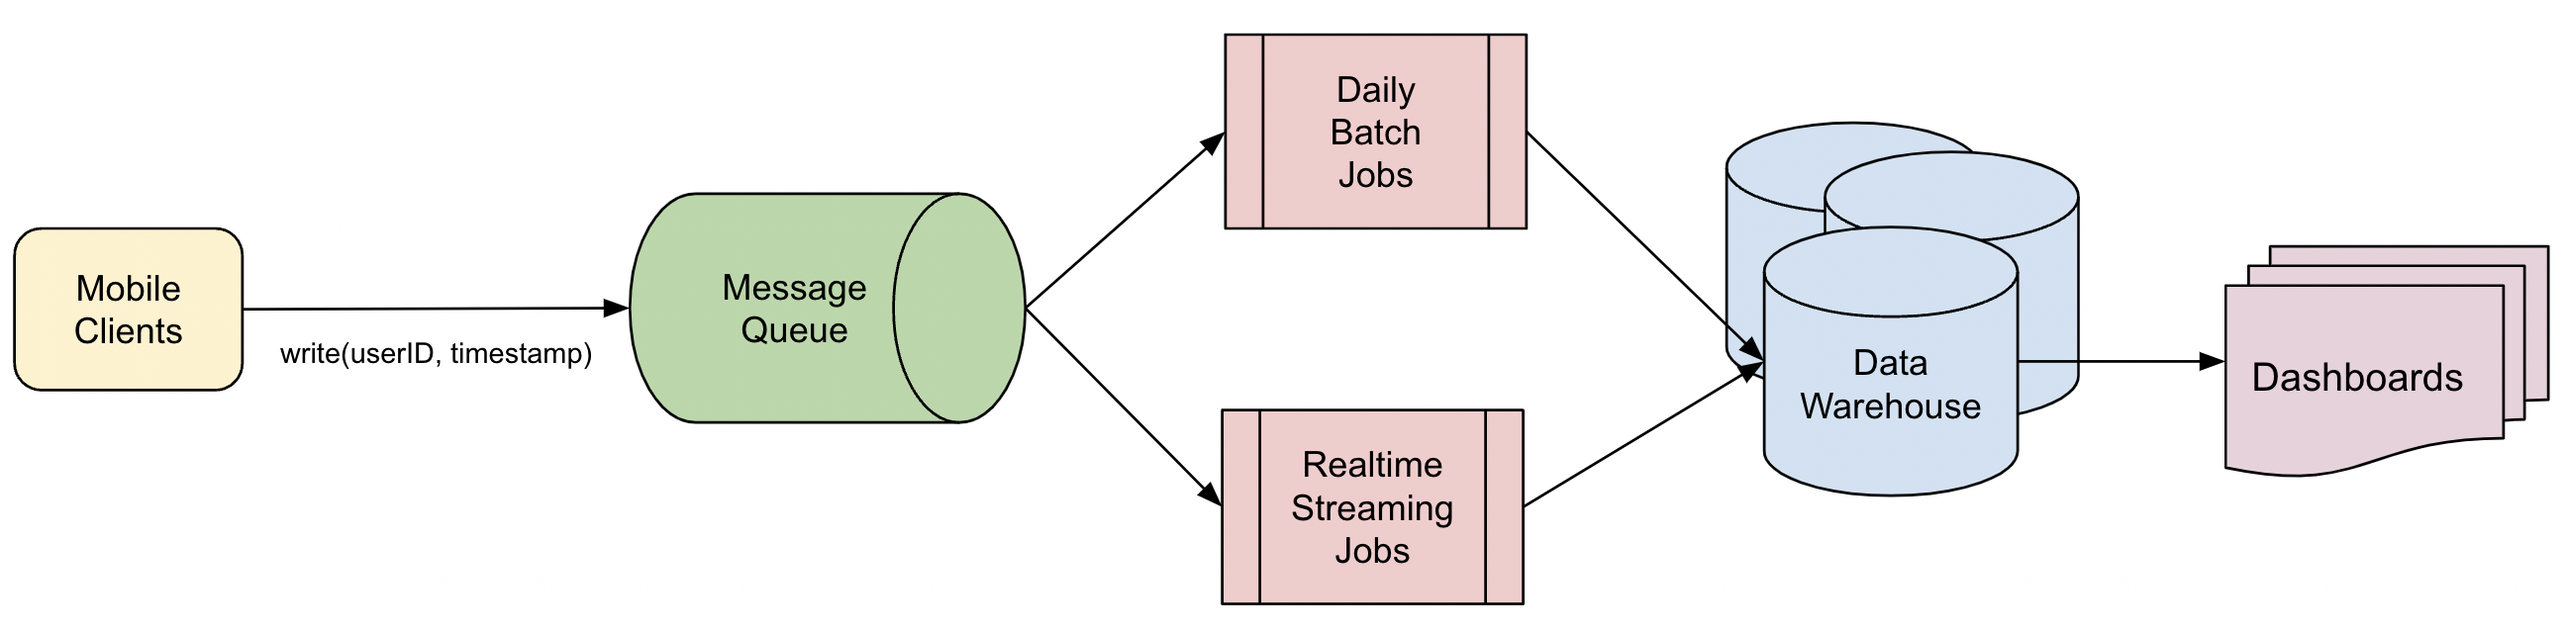
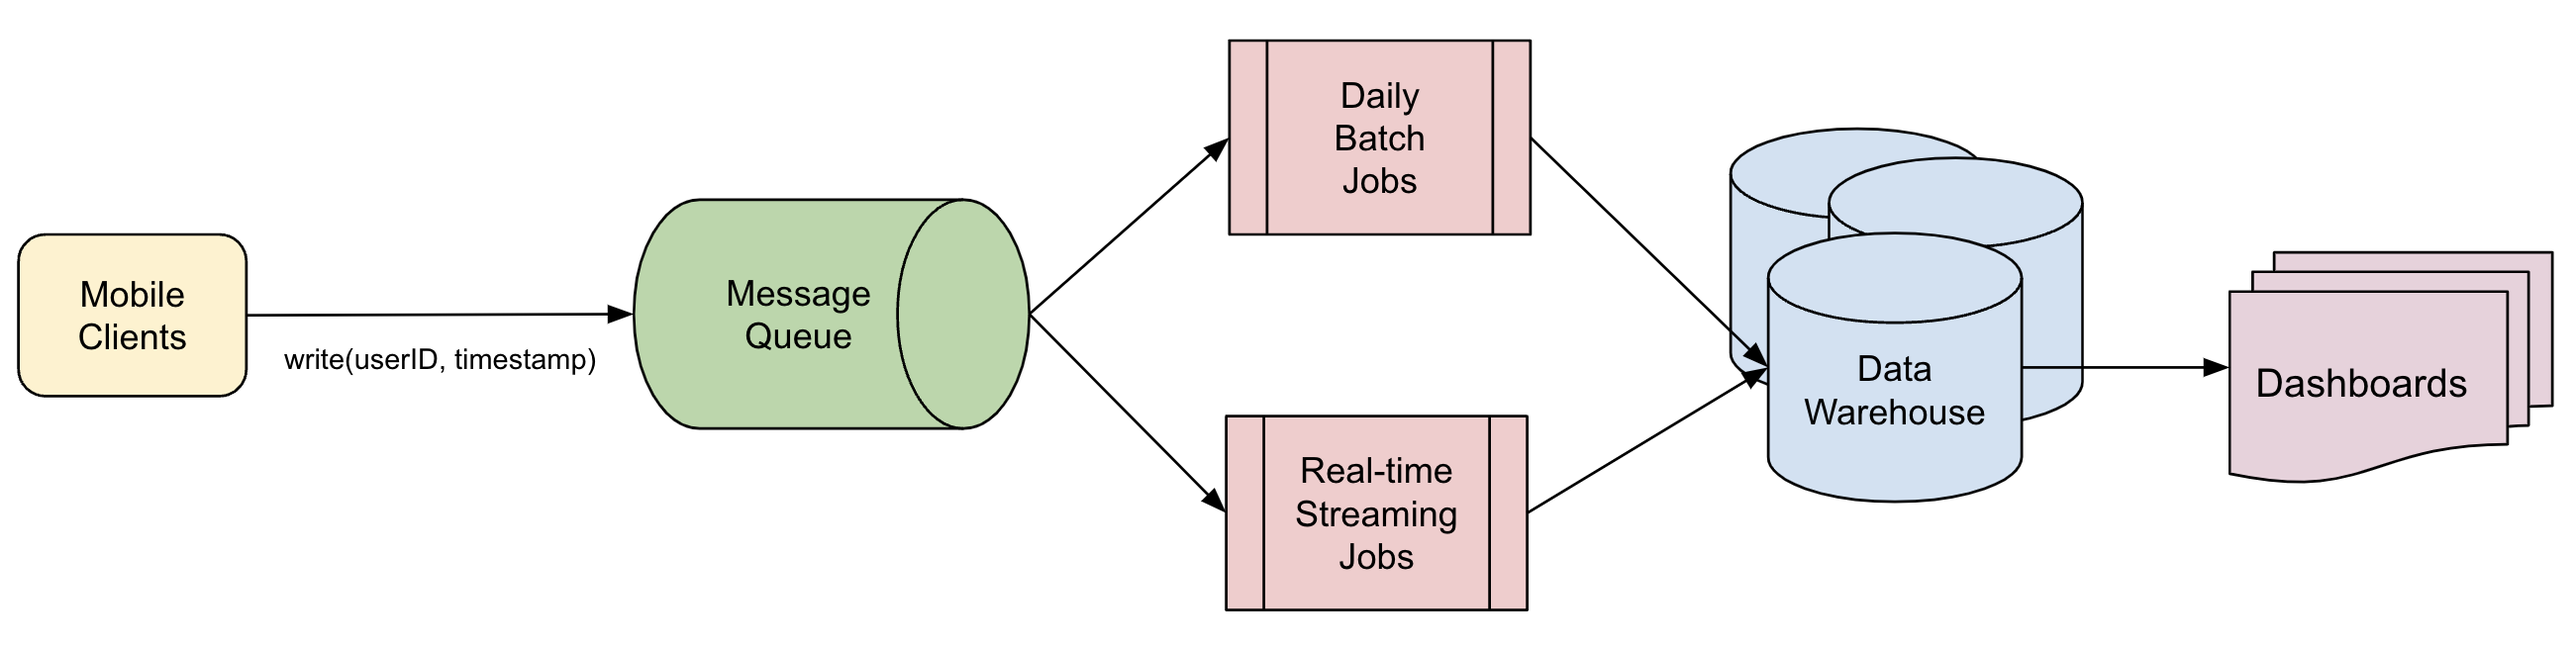
update lambda architecture post for clarity

diff --git a/_posts/2022-07-27-lambda-architecture-a-practical-example.md b/_posts/2022-07-27-lambda-architecture-a-practical-example.md
@@ -3,7 +3,9 @@ layout: post
 title: "Lambda Architecture: A Practical Example"
 ---
 
-Many tech companies utilize something called Lambda architecture[^1] as the basis of their data processing infrastructure, which processes data needed to drive their most critical business decisions and initiatives.
+Many tech companies utilize something called Lambda architecture as the basis of their data processing infrastructure, which processes the data needed to drive their most critical business decisions and initiatives.[^1]
+
+[^1]: not to be confused with lambda functions or AWS Lambda/serverless
 
 This post seeks to explain the what, why, and how of Lambda architecture using a practical example.
 
@@ -25,13 +27,13 @@ FROM player_table
 WHERE DATE(`timestamp`) = DATE_SUB(CUR_DATE(), INTERVAL 1 DAY)
 ```
 
-###### Note, since a user can open the game multiple times per day, the COUNT DISTINCT is necessary for de-duplication.
+###### Note, a user can open the game multiple times per day, the COUNT DISTINCT is necessary to get the total unique count
 
 Great, the query runs successfully and we reply to Bob - "21,367 players!"
 
-This architecture is initially scalable enough for our relatively small playerbase, and serves our purposes quite well. Slowly however, our game becomes a massive hit and our game explodes in popularity. We gain millions of players worldwide and are very excited about the potential of continued growth.
+This architecture is initially scalable enough for our relatively small player-base. Slowly however, our game becomes a massive hit and explodes in popularity. We gain millions of players worldwide and are very excited about the potential of continued growth.
 
-Unfortunately, our SQL database begins to buckle under the increased load. The CPU spikes to 100% and reliability drops - we begin losing data. To support this load, we consider renting more expensive SQL nodes (vertical scaling) and sharding our database (horizontal scaling). However, we do some back-of-envelope calculations and realize either approach would lead to prohibitively expensive infrastructure costs to support the scale we need.
+Unfortunately, our SQL database begins to buckle under the increased load. The CPU spikes to 100% and reliability drops - we begin losing data. To support this load, we consider renting more powerful SQL nodes (vertical scaling) and sharding our database (horizontal scaling). However, we do some back-of-envelope calculations and realize either approach would lead to prohibitively expensive infrastructure costs to support the scale we need.
 
 We decide to build a more robust alternative.
 
@@ -39,9 +41,9 @@ We decide to build a more robust alternative.
 
 To handle our increased request volume, we need a more efficient way to log the user IDs and timestamps. We decide to write to a message queue instead, which can efficiently support a high number of write requests. 
 
-After we write to the message queue, we still need a way to calculate the number of unique players per day. We decide to implement this with a batch job. At the end of every day, our batch job reads all messages written in the previous day in parallel, and counts the unique user IDs (de-duplicating as necessary), and writes the result to a DB. The job takes a few hours to complete and the results should be ready by morning.
+After we write to the message queue, we still need a way to calculate the number of unique players per day. We decide to implement this with a batch MapReduce job. At the end of each day, our job reads all messages written in the previous day in parallel, counts the unique user IDs (de-duplicating as necessary), and writes the result to a DB. The job takes a few hours to complete and the results should be ready by morning.
 
-To further optimize on storage costs, we introduce data retention by regularly purging stale data used already from previous dates from the message queue.
+To further optimize on storage costs, we introduce data retention by regularly purging stale data used already by previous daily jobs from the message queue.
 
 ![batch](/assets/lambda-architecture/batch.png)
 
@@ -49,33 +51,33 @@ We test and deploy the system, add some metrics and alarms, and go to sleep. The
 
 ![how many players where there yesterday?](/assets/lambda-architecture/yesterday-msg.png)
 
-We check yesterday's job and saw it completed. We query the results and reply to Bob - "20,340,911 players!"
+We check yesterday's job and saw it completed. We query the result and reply to Bob - "20,340,911 players!"
 
 Our system works as expected and the number of players continue to grow, life is good.
 
-## Realtime Layer
+## Real-time Layer
 
 One day, we get a different Slack message from Bob:
 
 ![roughly how many players played today so far?](/assets/lambda-architecture/today-msg.png)
 
-However, we only have the numbers from yesterday. We quickly trigger a manual run of the batch job for today's data. After few hours when the job completes, we reply the number to Bob, who has already ended his workday and is offline.
+However, we only have the numbers from yesterday. We quickly trigger a manual run of the batch job for today's data. After few hours when the job completes, we reply to Bob with the number. However, Bob has already ended his workday and is offline.
 
-To handle future questions like this quickly, we decide to build a realtime system. We briefly reconsider our previous design of writing directly to the SQL DB which we can quickly query, but remember the scaling constraints. We also consider running the batch job every minute to always have up-to-date data, but the batch job is expensive and we can only afford a few runs per a day.
+To be able to handle future questions like this quickly, we decide to build a real-time system. We briefly reconsider our previous design of a SQL DB which can be quickly queried, but remember the scaling constraints. We also consider running the batch job every few minutes to always have up-to-date data, but the batch job is expensive and we can only afford a few runs per a day.
 
-We recall learning about data streaming and how it can be used to handle realtime data, and decide to build a streaming job. We set up our streaming job, and add it as an additional consumer to our message queue where it constantly fetches the latest user IDs from the queue.
+We recall learning about data streaming and how it can be used to handle real-time data, and decide to build a streaming job. We set up our streaming job, and add it as an additional consumer to our message queue where it constantly fetches the latest user IDs from the queue.
 
-We consider outputting the streaming job as to a set of unique user IDs to keep track of the distinct count, but that would require memory proportional to the number of players - too expensive. Since Bob is fine with just a rough number in realtime, we decide to use a probabilistic cardinality counter, such as [HyperLogLog](https://en.wikipedia.org/wiki/HyperLogLog) which can approximate the number of uniques to a high degree of accuracy at a fraction of the memory footprint.
+We consider outputting the streaming job as to a set of unique user IDs to keep track of the distinct count, but that would require memory proportional to the number of players - too expensive. Since Bob is fine with just a rough number in real-time, we decide to use a probabilistic cardinality counter, such as [HyperLogLog](https://en.wikipedia.org/wiki/HyperLogLog) which can approximate the number of uniques to a high degree of accuracy at a fraction of the memory footprint.
 
 ![streaming](/assets/lambda-architecture/streaming.png)
 
-After deploying the realtime job and HyperLogLog DB, we are now ready to answer Bob's question quickly at anytime during the day.
+After deploying the streaming job and HyperLogLog counter, we are now ready to answer Bob's question quickly at anytime during the day.
 
 ## Serving Layer
 
-Our game continues to increase in popularity, and both our batch and realtime systems continue to scale successfully. Over time, more business use cases are added such as: How many matches are played per day? How many players per country? How many advertisements shown per hour? etc.
+Our game continues to increase in popularity, and both our batch and real-time systems continue to scale successfully. Over time, more business use cases are added such as: How many matches are played per day? How many players per country? How many advertisements shown per hour? etc.
 
-Bob also grows the company by hiring data analysts and forming a business team. As a result, we need a more efficient way to serve the data to them instead of manually running queries and replying on Slack.
+Bob also grows the company by hiring data analysts and forming a business team. As a result, we need a more efficient way to serve the data to them instead of manually running queries and replying over Slack.
 
 We decide to build a serving layer. We join the different databases we have behind a single interface, and build tools and dashboards so the business team can visualize the data and run reports on an ad-hoc basis.
 
@@ -85,19 +87,18 @@ After deploying the serving layer, everyone in the company is now able to access
 
 ## Conclusion
 
-The batch layer provides accurate data with increased latency - useful for scenarios that require precision over speed (e.g. financial reporting); the realtime layer provides approximate data at a low latency - useful for scenarios that require speed over precision (e.g. operational realtime decision-making). The serving layer enables stakeholders to easily access this data.
+The batch layer provides accurate data with increased latency - useful for scenarios that require precision over speed (e.g. financial reporting); the real-time layer provides approximate data at a low latency - useful for scenarios that require speed over precision (e.g. operational real-time decision-making). The serving layer enables stakeholders to easily access this data.
 
-These systems form Lambda Architecture. This architecture is flexible and powerful, and is used by many tech companies to process the data they need to drive their most critical decisions and initiatives. Although this post described the architecture and tradeoffs at a high level, in a real production environment there are many more considerations, including:
+These systems form Lambda architecture. This architecture is flexible and powerful, and is used by many tech companies to process the data they need to drive their most critical decisions and initiatives. Although this post described the architecture and tradeoffs at a high level, in a real production environment there are many more considerations, including:
 
 - Scalability: How can I architect this system to scale to my business needs? How do I minimize cost in this system?
-- Consistency: How do I know my data is correct? How do I know if it is stale? Is my data ordered in the correct sequence?
+- Consistency: How do I know my data is correct? How do I know if it is up-to-date? Is my data ordered in the correct sequence?
 - Fault Tolerance: Is my data durable? What kind of guarantees can I provide about my data?
 - Operational: How available is my system? How much effort does my team need to ensure its availability?
 
 ## Additional Resources
 
 - https://en.wikipedia.org/wiki/Lambda_architecture
+- https://en.wikipedia.org/wiki/MapReduce
 - https://databricks.com/glossary/lambda-architecture
 - https://www.confluent.io/learn/batch-vs-real-time-data-processing/
-
-[^1]: not to be confused with serverless functions such as AWS Lambda
